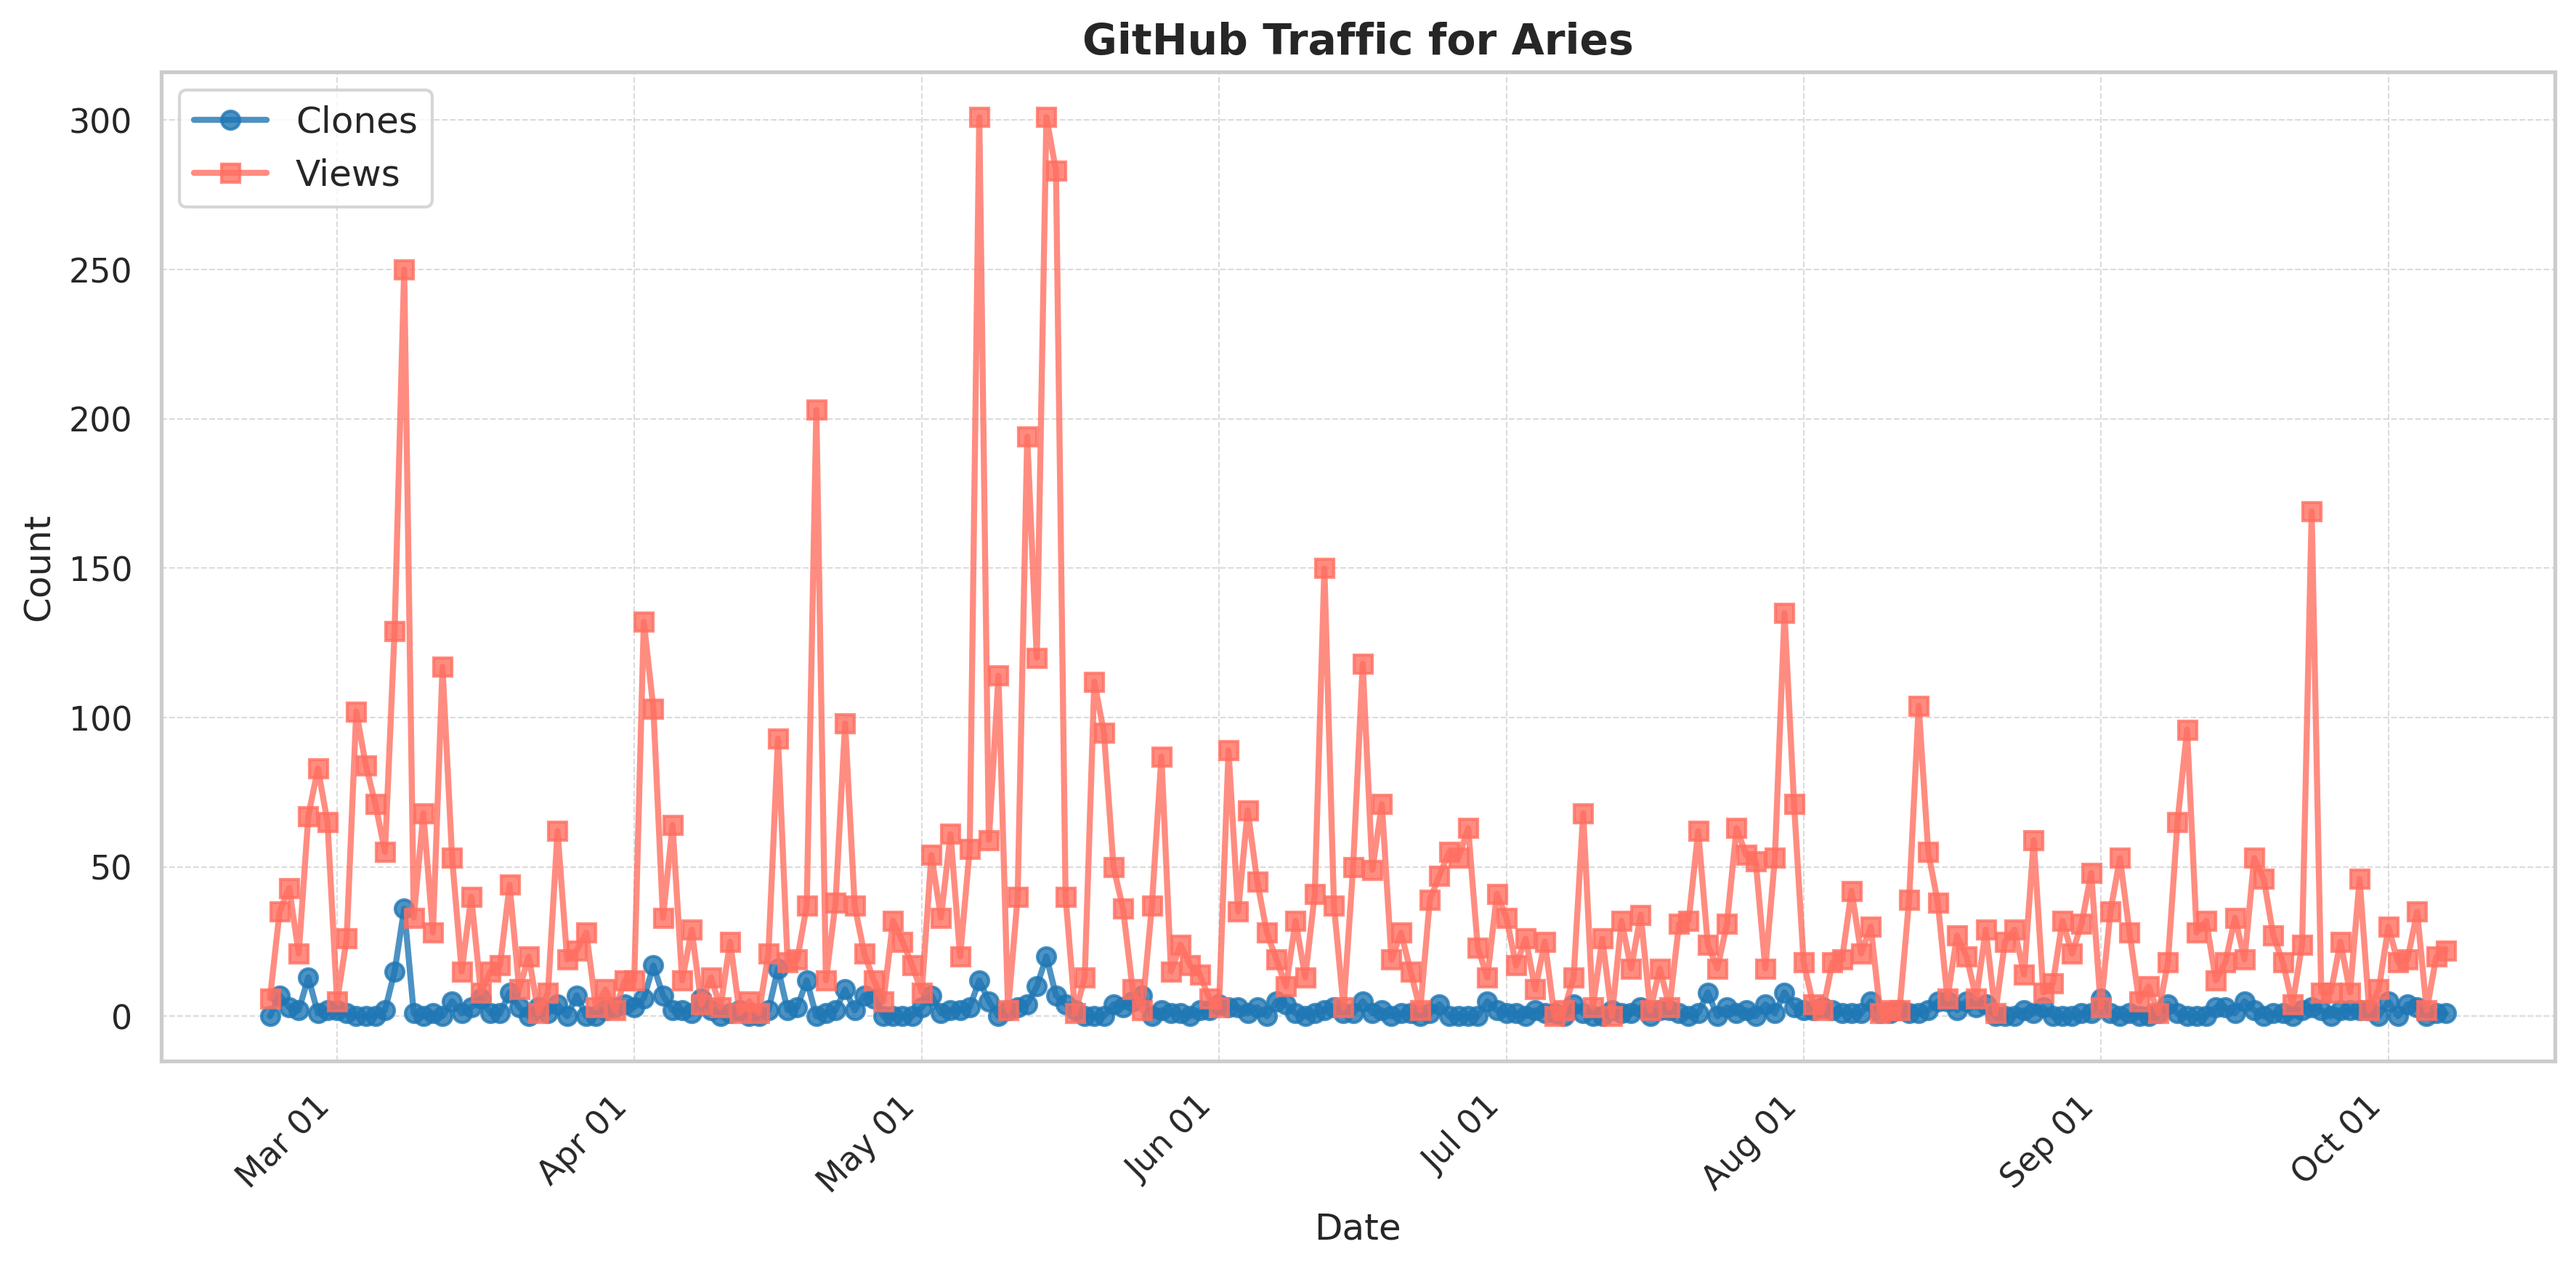
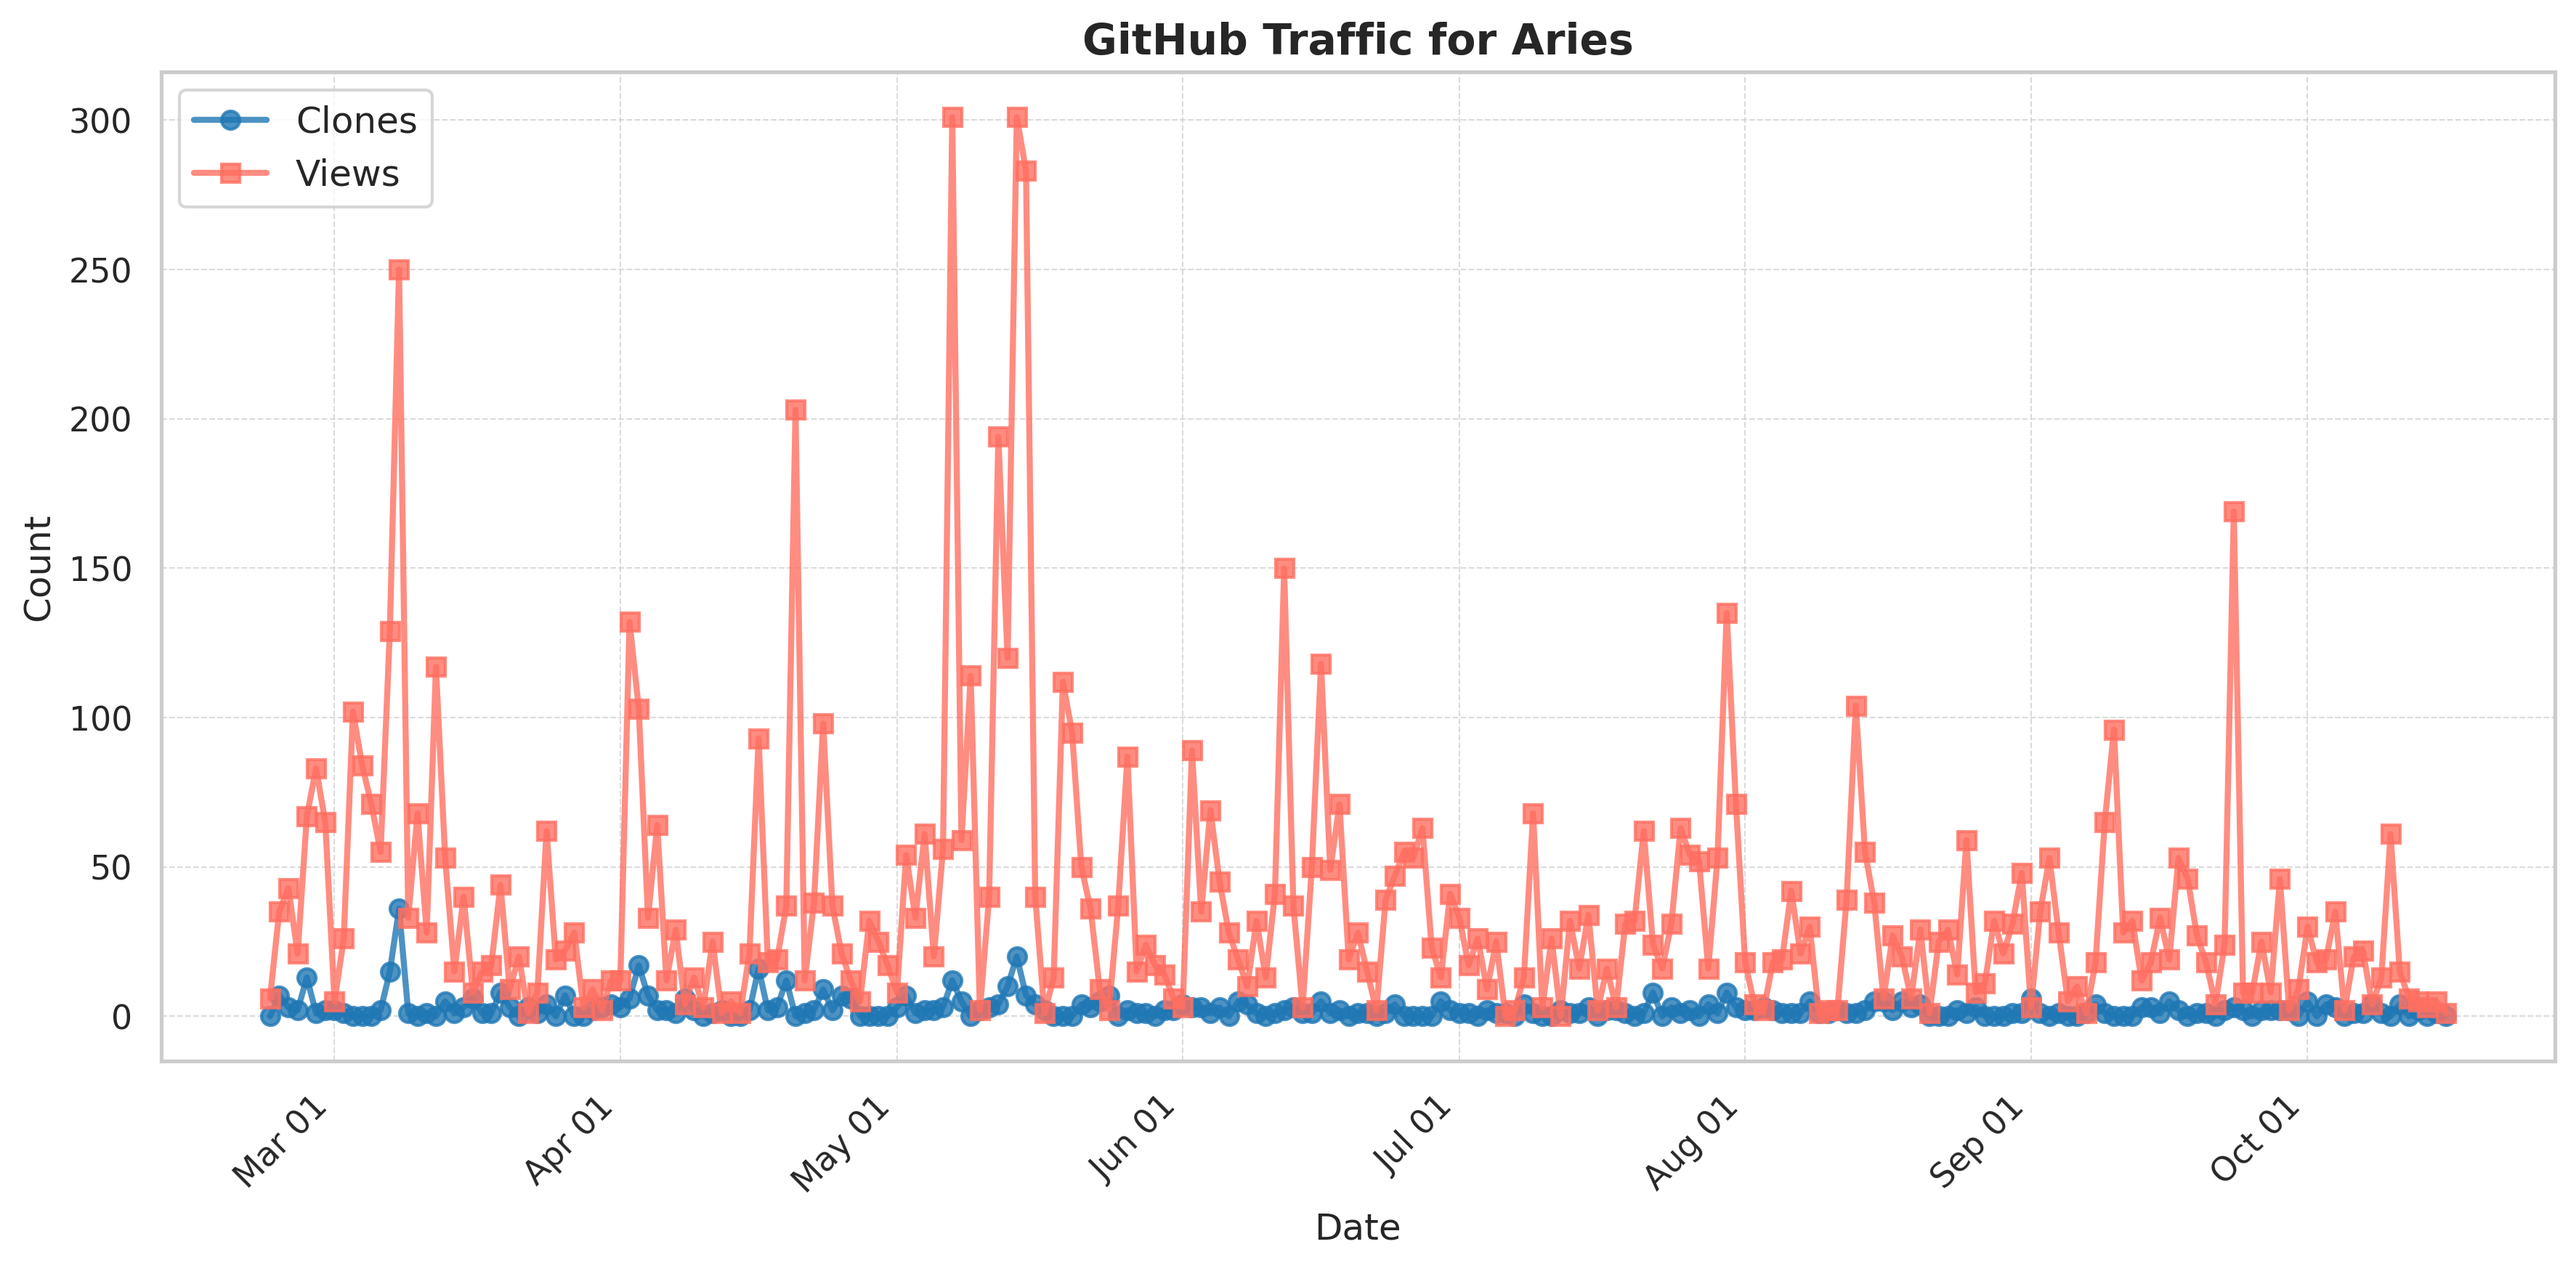
Auto-generated traffic_plot.png and plot_data.csv

diff --git a/README.md b/README.md
@@ -99,6 +99,6 @@ series = {FPGA '25}
 
 ## 🚀 Thank You for Using ARIES! ! !
 ### Your support and growing engagement inspire us to continually improve and enhance ARIES project.
-+ Total Views since 02/22/2025: <!--VIEWS-->9040<!--/VIEWS-->
-+ Total Downloads since 02/22/2025: <!--CLONES-->587<!--/CLONES-->
++ Total Views since 02/22/2025: <!--VIEWS-->9153<!--/VIEWS-->
++ Total Downloads since 02/22/2025: <!--CLONES-->599<!--/CLONES-->
 <img src="./assets/Aries_traffic_plot.png" width="600" />
